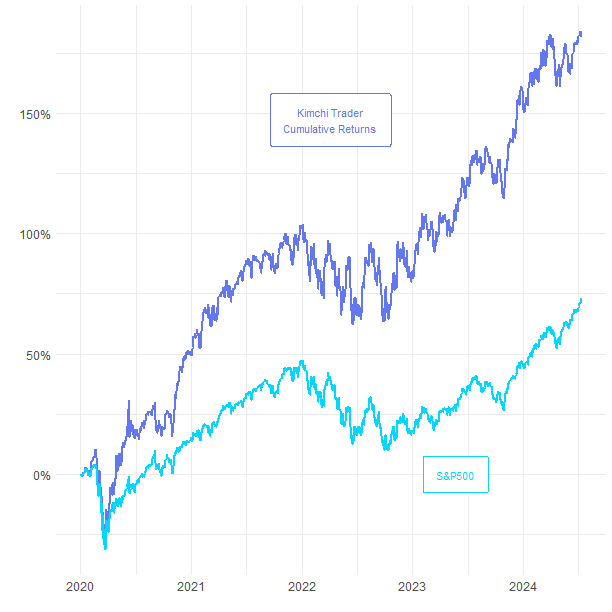
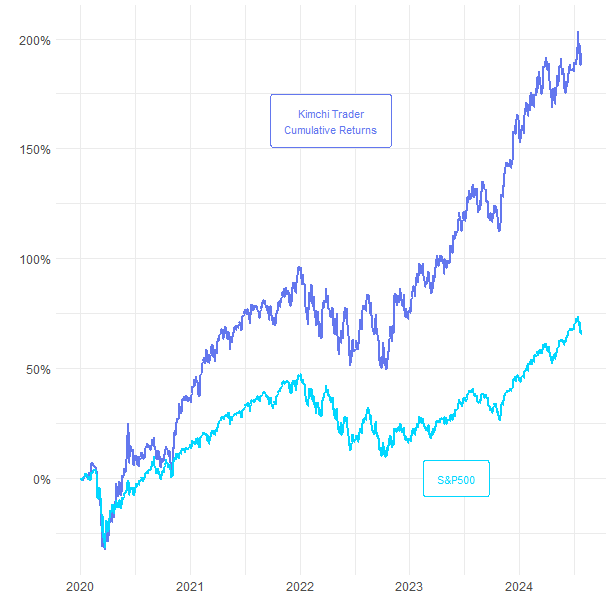
asdf

diff --git a/index.html b/index.html
@@ -453,8 +453,8 @@
 <div class="inner-box">
 <figure class="image-box"><img src="assets/images/signals/1.png" alt=""></figure>
 <div class="author-info">
-<h4>ADBE</h4>
-<span class="designation">Technology</span>
+<h4>NSC</h4>
+<span class="designation">Industrials</span>
 <p></p>
 </div>
 </div>
@@ -463,8 +463,8 @@
 <div class="inner-box">
 <figure class="image-box"><img src="assets/images/signals/2.png" alt=""></figure>
 <div class="author-info">
-<h4>SNPS</h4>
-<span class="designation">Technology</span>
+<h4>SNA</h4>
+<span class="designation">Industrials</span>
 <p></p>
 </div>
 </div>
@@ -490,7 +490,7 @@
 <div class="col-lg-3 col-md-6 col-sm-12 counter-column">
 <div class="counter-block wow slideInUp" data-wow-delay="00ms" data-wow-duration="1500ms">
 <div class="count-outer count-box">
-<span class="count-text" data-speed="1500" data-stop="41.43">0</span>
+<span class="count-text" data-speed="1500" data-stop="44.71">0</span>
 </div>
 <h5>Last Year</h5>
 </div>
@@ -498,7 +498,7 @@
 <div class="col-lg-3 col-md-6 col-sm-12 counter-column">
 <div class="counter-block wow slideInUp" data-wow-delay="200ms" data-wow-duration="1500ms">
 <div class="count-outer count-box">
-<span class="count-text" data-speed="1500" data-stop="7.6">0</span>
+<span class="count-text" data-speed="1500" data-stop="12.03">0</span>
 </div>
 <h5>Last 3 Months</h5>
 </div>
@@ -506,7 +506,7 @@
 <div class="col-lg-3 col-md-6 col-sm-12 counter-column">
 <div class="counter-block wow slideInUp" data-wow-delay="200ms" data-wow-duration="1500ms">
 <div class="count-outer count-box">
-<span class="count-text" data-speed="1500" data-stop="3.35">0</span>
+<span class="count-text" data-speed="1500" data-stop="4.49">0</span>
 </div>
 <h5>Last Month</h5>
 </div>
@@ -514,7 +514,7 @@
 <div class="col-lg-3 col-md-6 col-sm-12 counter-column">
 <div class="counter-block wow slideInUp" data-wow-delay="200ms" data-wow-duration="1500ms">
 <div class="count-outer count-box">
-<span class="count-text" data-speed="1500" data-stop="181.34">0</span>
+<span class="count-text" data-speed="1500" data-stop="193.61">0</span>
 </div>
 <h5>Last 5 Years</h5>
 </div>

diff --git a/assets/images/figures/insider_signals_table.html b/assets/images/figures/insider_signals_table.html
@@ -357,20 +357,20 @@ border: 0;
    <td style="text-align:left;background-color: rgba(196, 246, 255, 255) !important;"> 5.74% </td>
   </tr>
   <tr>
-   <td style="text-align:left;"> BOC </td>
+   <td style="text-align:left;"> OEC </td>
    <td style="text-align:left;"> 2024-06-07 </td>
-   <td style="text-align:right;"> 22859.00 </td>
-   <td style="text-align:left;"> Weisenburger Joshua Paul </td>
+   <td style="text-align:right;"> 77061.00 </td>
+   <td style="text-align:left;"> Glajch Jeffrey </td>
    <td style="text-align:left;"> officer: Chief Financial Officer </td>
-   <td style="text-align:left;"> 5.56% </td>
+   <td style="text-align:left;"> 6.49% </td>
   </tr>
   <tr>
-   <td style="text-align:left;background-color: rgba(196, 246, 255, 255) !important;"> OEC </td>
+   <td style="text-align:left;background-color: rgba(196, 246, 255, 255) !important;"> BOC </td>
    <td style="text-align:left;background-color: rgba(196, 246, 255, 255) !important;"> 2024-06-07 </td>
-   <td style="text-align:right;background-color: rgba(196, 246, 255, 255) !important;"> 77061.00 </td>
-   <td style="text-align:left;background-color: rgba(196, 246, 255, 255) !important;"> Glajch Jeffrey </td>
+   <td style="text-align:right;background-color: rgba(196, 246, 255, 255) !important;"> 22859.00 </td>
+   <td style="text-align:left;background-color: rgba(196, 246, 255, 255) !important;"> Weisenburger Joshua Paul </td>
    <td style="text-align:left;background-color: rgba(196, 246, 255, 255) !important;"> officer: Chief Financial Officer </td>
-   <td style="text-align:left;background-color: rgba(196, 246, 255, 255) !important;"> 6.49% </td>
+   <td style="text-align:left;background-color: rgba(196, 246, 255, 255) !important;"> 5.56% </td>
   </tr>
   <tr>
    <td style="text-align:left;"> FF </td>

diff --git a/assets/images/figures/signals_table.html b/assets/images/figures/signals_table.html
@@ -290,14 +290,14 @@ border: 0;
  </thead>
 <tbody>
   <tr>
-   <td style="text-align:left;"> ADBE </td>
-   <td style="text-align:left;"> Technology </td>
-   <td style="text-align:left;"> 2024-05-31 </td>
+   <td style="text-align:left;"> NSC </td>
+   <td style="text-align:left;"> Industrials </td>
+   <td style="text-align:left;"> 2024-06-30 </td>
   </tr>
   <tr>
-   <td style="text-align:left;background-color: rgba(196, 246, 255, 255) !important;"> SNPS </td>
-   <td style="text-align:left;background-color: rgba(196, 246, 255, 255) !important;"> Technology </td>
-   <td style="text-align:left;background-color: rgba(196, 246, 255, 255) !important;"> 2024-04-30 </td>
+   <td style="text-align:left;background-color: rgba(196, 246, 255, 255) !important;"> SNA </td>
+   <td style="text-align:left;background-color: rgba(196, 246, 255, 255) !important;"> Industrials </td>
+   <td style="text-align:left;background-color: rgba(196, 246, 255, 255) !important;"> 2024-06-29 </td>
   </tr>
   <tr>
    <td style="text-align:left;"> INTU </td>
